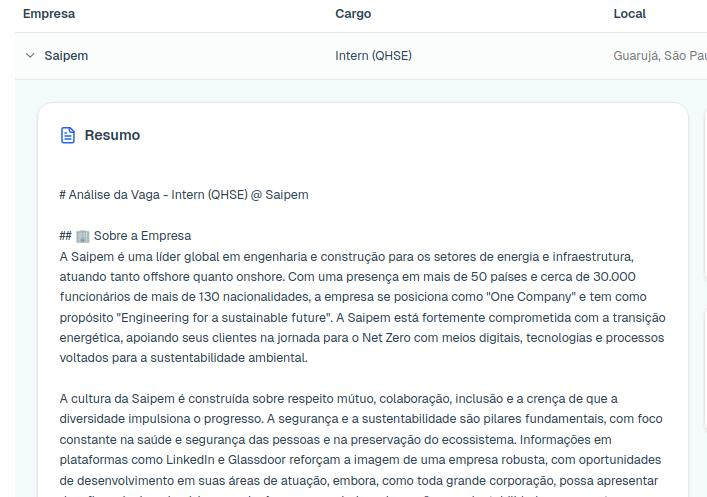
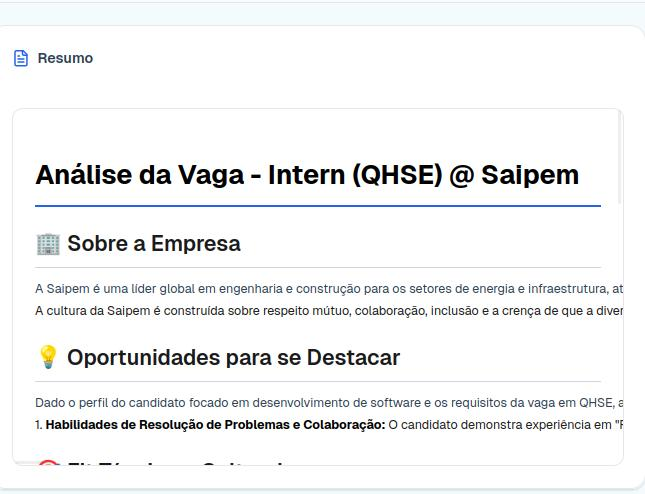
fix: update MarkdownPreview styles and manage image files
- Adjusted styles in MarkdownPreview and related components to remove overflow-y-auto for improved layout consistency.
- Updated VagaDetailPage and ResumeGeneratorDialog to enhance Markdown presentation.
- Replaced anexo2.jpg with an updated version of anexo1.jpg to maintain relevant assets in the project.

diff --git a/app/vaga/[id]/page.tsx b/app/vaga/[id]/page.tsx
@@ -281,7 +281,7 @@ export default function VagaDetailPage() {
                     </div>
                   </div>
                 ) : (
-                  <MarkdownPreview content={markdownContent} editable={false} className="max-h-[500px] overflow-y-auto" />
+                  <MarkdownPreview content={markdownContent} editable={false} className="max-h-[500px]" />
                 )
               ) : (
                 <p className="text-sm text-muted-foreground italic py-4">Nenhuma análise disponível para esta vaga.</p>
@@ -380,7 +380,7 @@ export default function VagaDetailPage() {
                               Editar
                             </Button>
                           </div>
-                          <MarkdownPreview content={curriculoMarkdown} editable={false} className="max-h-[500px] overflow-y-auto" />
+                          <MarkdownPreview content={curriculoMarkdown} editable={false} className="max-h-[500px]" />
                         </div>
                       )}
                       {!curriculoMarkdown && vaga.arquivo_cv_url && (

diff --git a/components/resume-generator-dialog.tsx b/components/resume-generator-dialog.tsx
@@ -483,7 +483,7 @@ export function ResumeGeneratorDialog({
                     content={markdownPt}
                     editable={isEditingPt}
                     onChange={setMarkdownPt}
-                    className={isEditingPt ? "min-h-[400px]" : "max-h-[400px] overflow-y-auto"}
+                    className={isEditingPt ? "min-h-[400px]" : "max-h-[400px]"}
                   />
                 </div>
               )}
@@ -500,7 +500,7 @@ export function ResumeGeneratorDialog({
                     content={markdownEn}
                     editable={isEditingEn}
                     onChange={setMarkdownEn}
-                    className={isEditingEn ? "min-h-[400px]" : "max-h-[400px] overflow-y-auto"}
+                    className={isEditingEn ? "min-h-[400px]" : "max-h-[400px]"}
                   />
                 </div>
               )}

diff --git a/components/vaga-table-row.tsx b/components/vaga-table-row.tsx
@@ -120,7 +120,7 @@ export function VagaTableRow({ vaga, isExpanded, onToggleExpand, onEdit, onDelet
                         <MarkdownPreview
                           content={vaga.observacoes}
                           editable={false}
-                          className="max-h-[400px] overflow-y-auto !max-w-full break-words"
+                          className="max-h-[400px] !max-w-full break-words"
                         />
                       </div>
                       {/* Se houver link para análise completa */}

diff --git a/components/ui/markdown-preview.tsx b/components/ui/markdown-preview.tsx
@@ -41,6 +41,7 @@ export function MarkdownPreview({ content, editable = false, onChange, className
         "markdown-preview prose prose-sm max-w-none",
         "p-6 rounded-lg border border-border bg-card",
         "text-foreground break-words overflow-wrap-anywhere",
+        "overflow-x-hidden overflow-y-auto",
         className
       )}
       dangerouslySetInnerHTML={{ __html: renderMarkdownToHTML(content) }}
